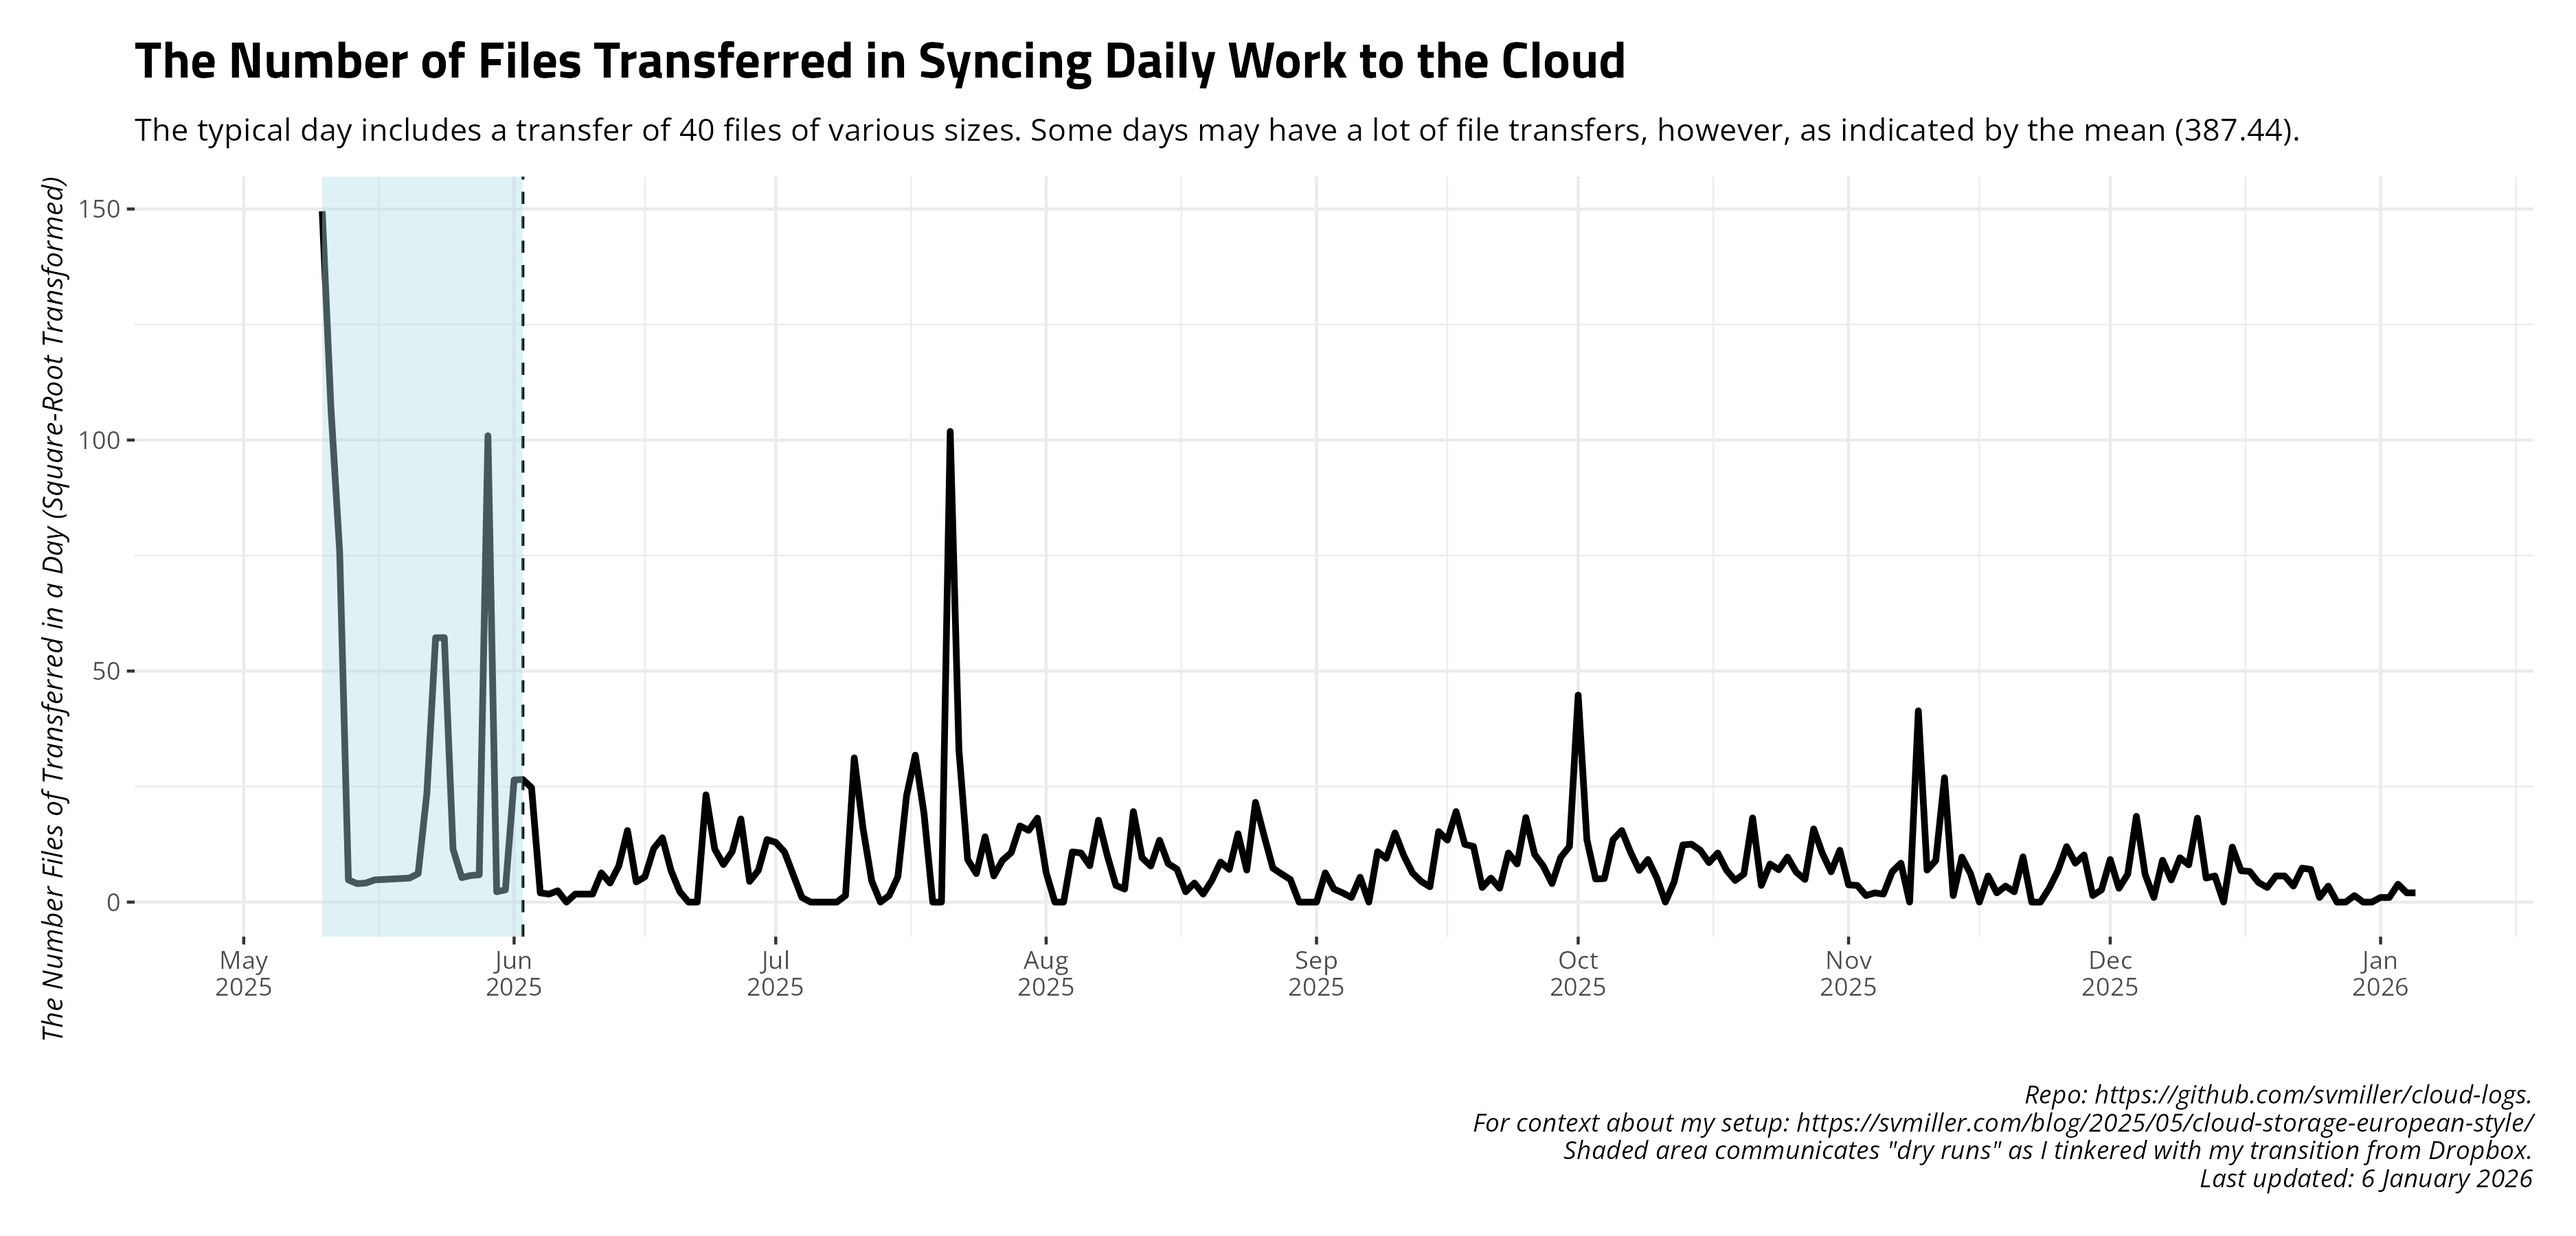
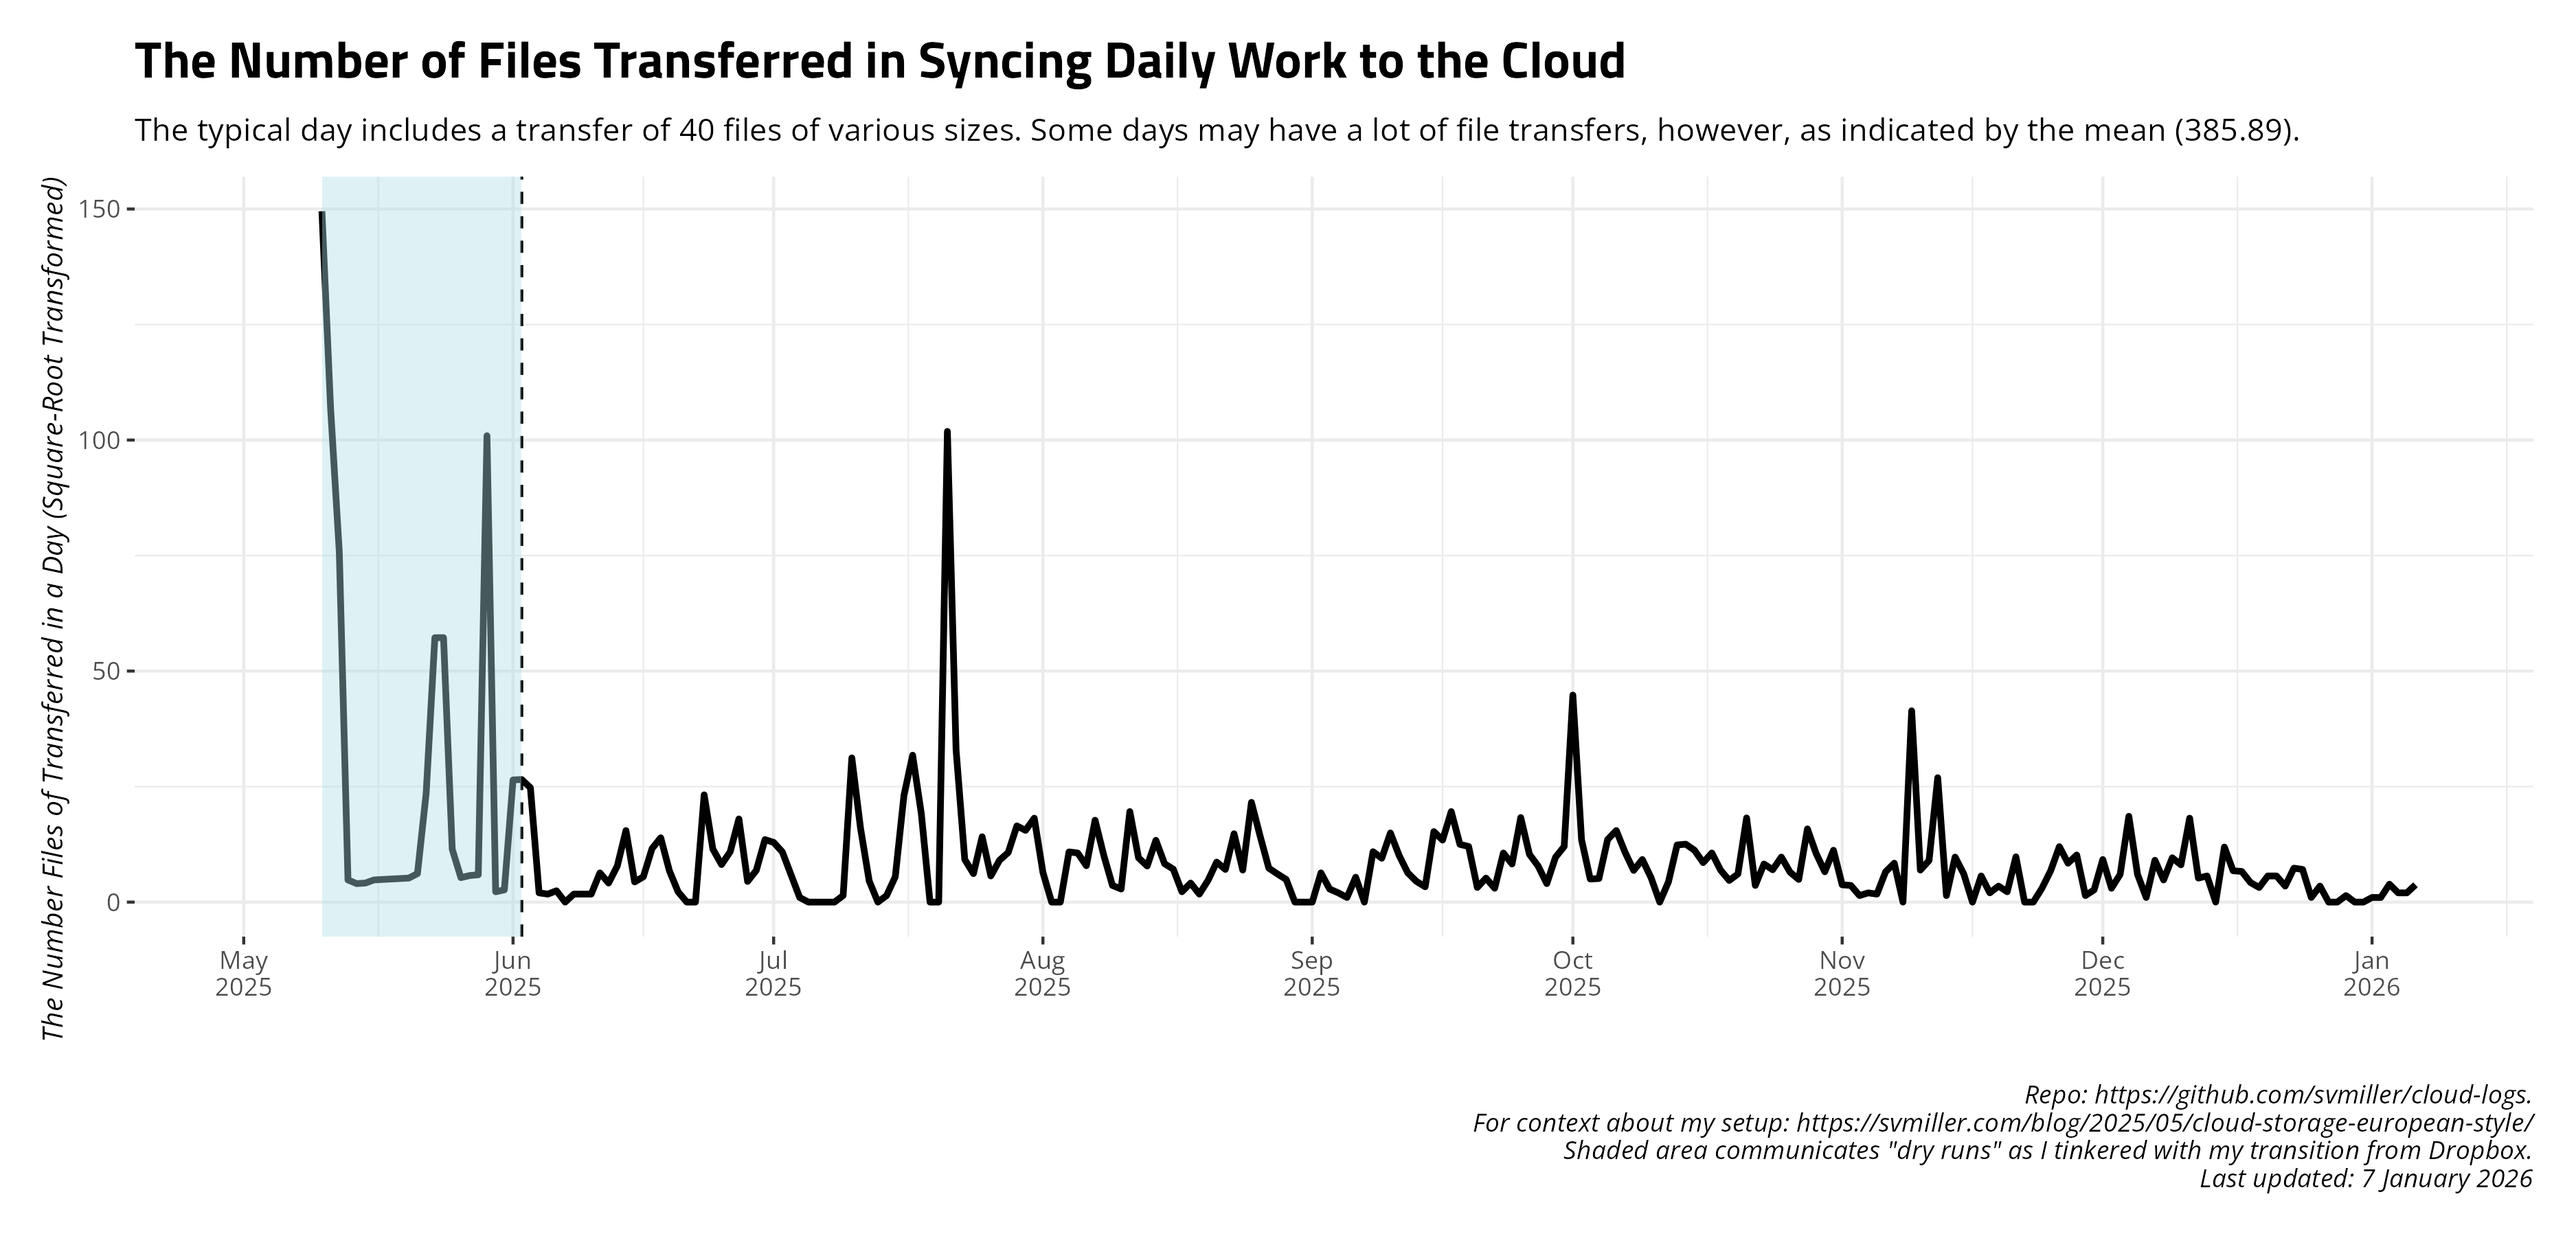
Date: 2026-01-07 09:00:19. Hi mom!

diff --git a/README.md b/README.md
@@ -27,17 +27,17 @@ and uploads to Github.
     #> # A tibble: 14 × 4
     #>    date       ftransfer stransfer   elapsed
     #>    <date>         <dbl> <chr>       <chr>  
-    #>  1 2025-12-23        54 241.235 KiB 7m42.6s
-    #>  2 2025-12-24        50 103.702 KiB 5m3.9s 
-    #>  3 2025-12-25         1 52.710 KiB  5m51.5s
-    #>  4 2025-12-26        12 50.808 KiB  5m20.9s
-    #>  5 2025-12-27         0 <NA>        5m45.8s
-    #>  6 2025-12-28         0 <NA>        5m45.5s
-    #>  7 2025-12-29         2 380.681 KiB 5m47.9s
-    #>  8 2025-12-30         0 <NA>        5m48.6s
-    #>  9 2025-12-31         0 <NA>        5m47.7s
-    #> 10 2026-01-01         1 53.897 KiB  5m50.3s
-    #> 11 2026-01-02         1 54.116 KiB  5m46.6s
-    #> 12 2026-01-03        15 11.971 MiB  5m49.2s
-    #> 13 2026-01-04         4 246.865 KiB 5m50.9s
-    #> 14 2026-01-05         4 545.865 KiB 6m18.5s
+    #>  1 2025-12-24        50 103.702 KiB 5m3.9s 
+    #>  2 2025-12-25         1 52.710 KiB  5m51.5s
+    #>  3 2025-12-26        12 50.808 KiB  5m20.9s
+    #>  4 2025-12-27         0 <NA>        5m45.8s
+    #>  5 2025-12-28         0 <NA>        5m45.5s
+    #>  6 2025-12-29         2 380.681 KiB 5m47.9s
+    #>  7 2025-12-30         0 <NA>        5m48.6s
+    #>  8 2025-12-31         0 <NA>        5m47.7s
+    #>  9 2026-01-01         1 53.897 KiB  5m50.3s
+    #> 10 2026-01-02         1 54.116 KiB  5m46.6s
+    #> 11 2026-01-03        15 11.971 MiB  5m49.2s
+    #> 12 2026-01-04         4 246.865 KiB 5m50.9s
+    #> 13 2026-01-05         4 545.865 KiB 6m18.5s
+    #> 14 2026-01-06        14 126.652 KiB 4m46.0s
